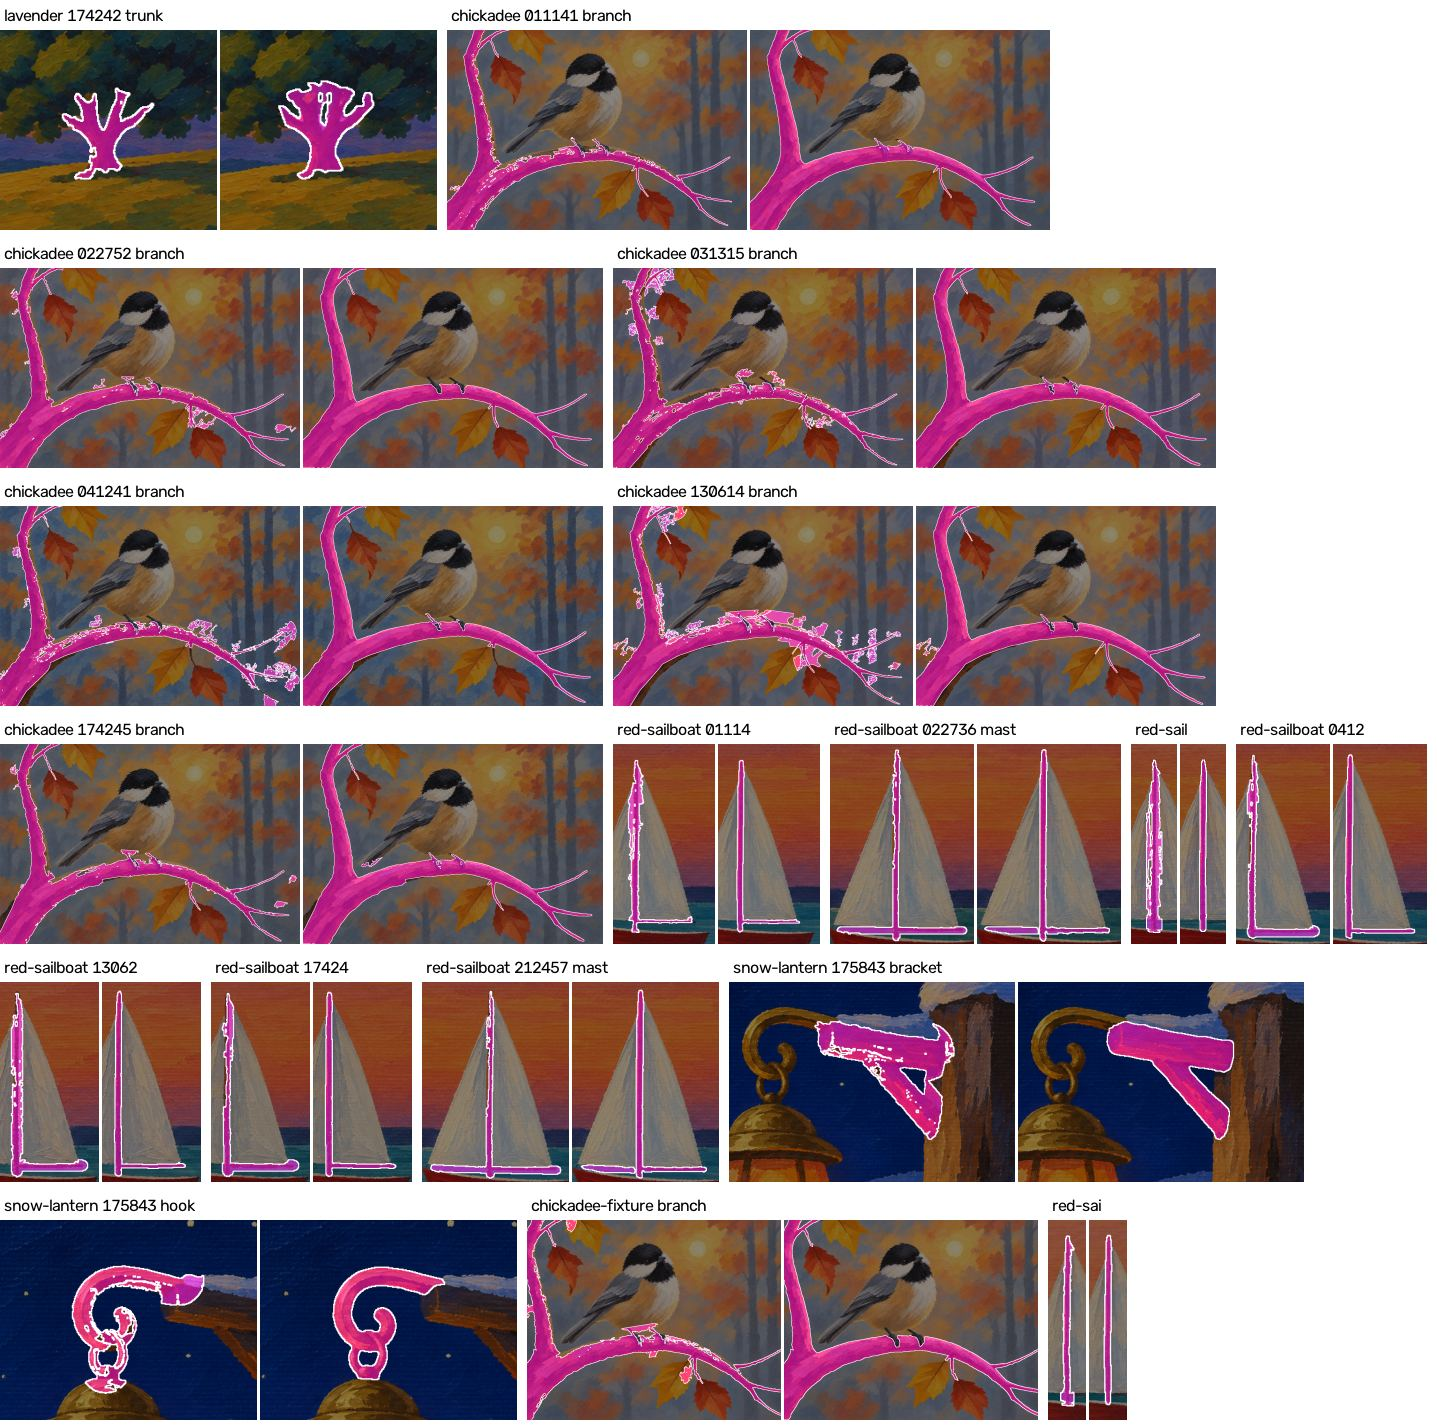
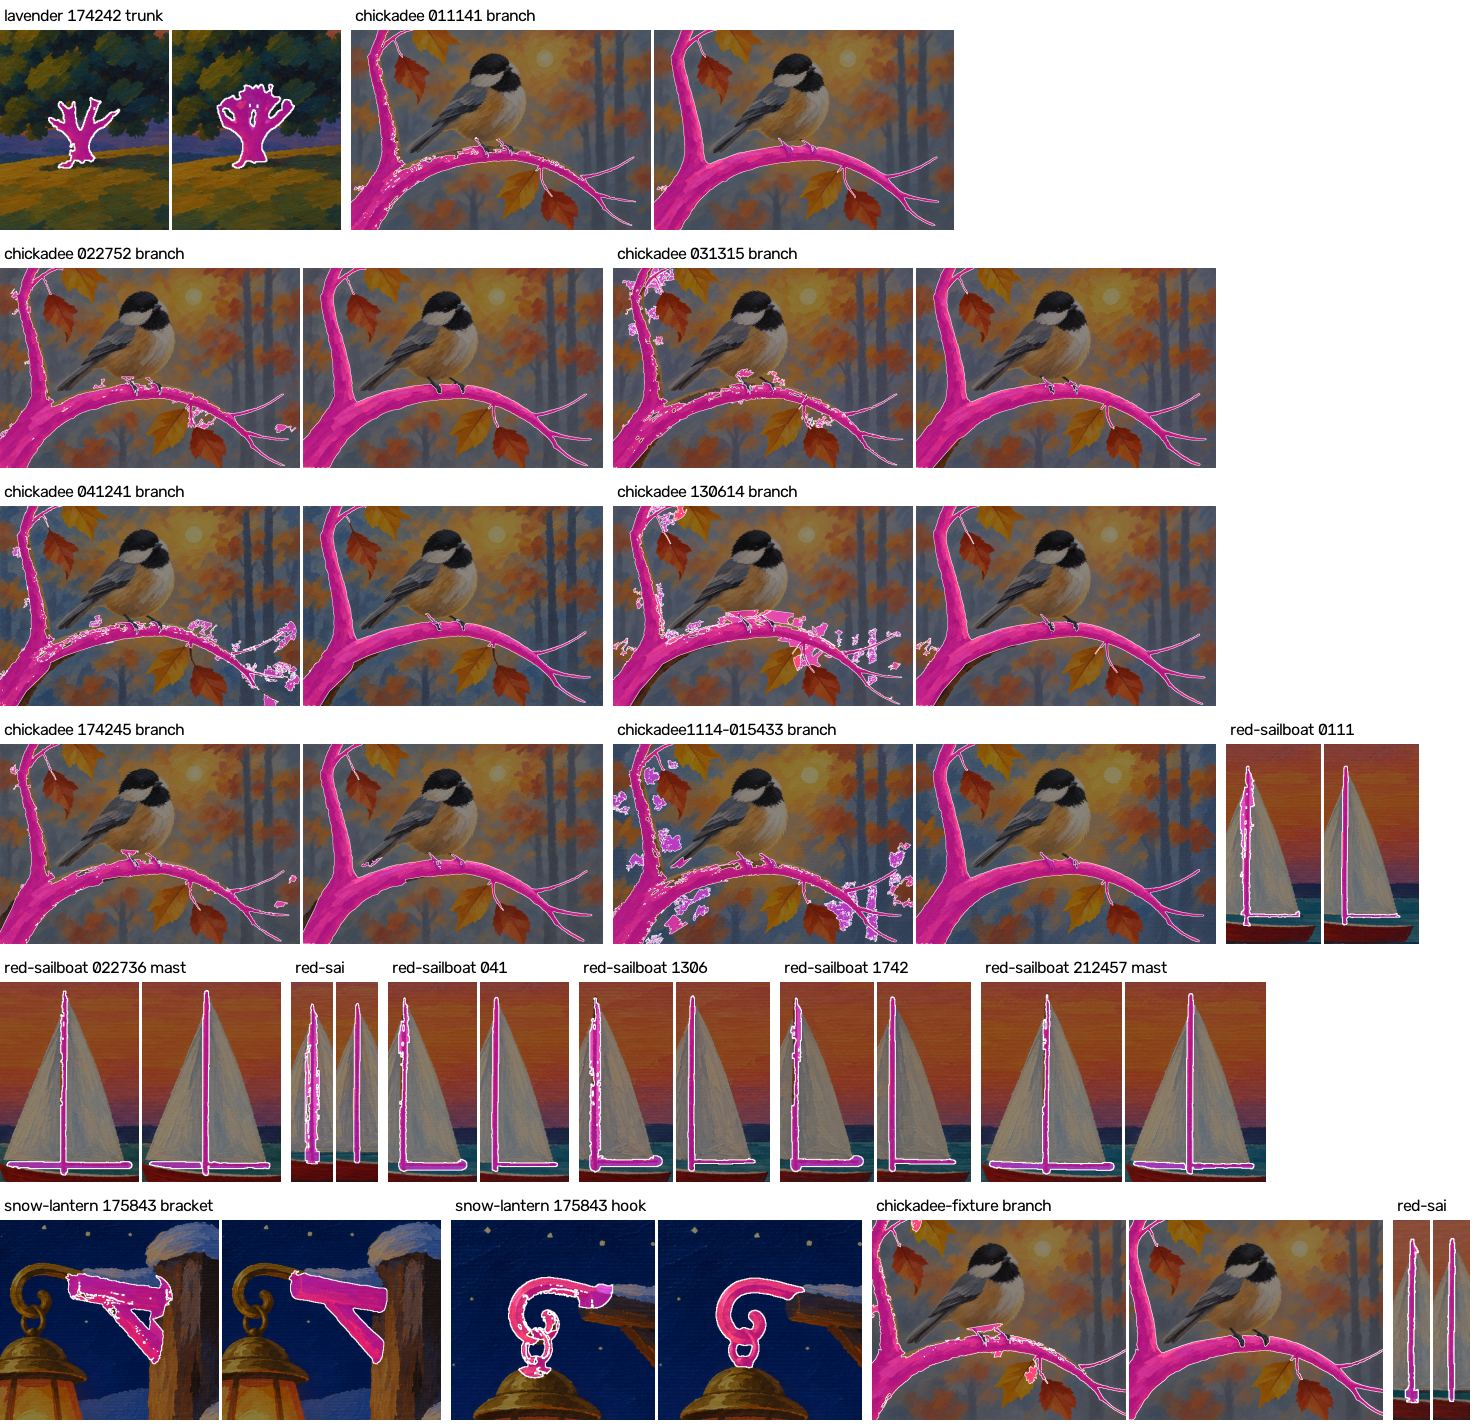
Review of #132: thin-part edge cases, a color check on the whole-part answer, and the box grows evenly
- A one-point path no longer crashes path_points.
- The color-rule fallback is decided after specks are dropped.
- stats.json carries color_agrees for a thin part, and problems reports one
  under 0.5: the model took what's behind it.
- A thin part missing one side's colors is refused by name again.
- path_box grows by the same distance up and down as to the sides, and
  points along a limb are spaced by the picture's width. Fixture outlines
  regenerated (under 0.01% of pixels moved) and the chickadee's paints
  measured again.
- Step 2 says what width means and that a leaf stem is a limb.
- Design section 6 records the first hands-off run.

Claude-Session: https://claude.ai/code/session_017xvRi3b5oo7VFd12D7CGUX

diff --git a/spike/outline.py b/spike/outline.py
@@ -40,7 +40,8 @@ SPECK = 0.0005  # pieces of a part smaller than this share of the picture go to 
 MARGIN = 0.0  # Lab units a marks pixel must be nearer its own colors than the colors behind it
 SEED_WINDOW = 0.006  # half the side of the patch a point's color is read from, as a share of the long side
 BAND = 1.6  # a thin part may reach this many times its stated width from its path
-LIMB_STEP = 0.06  # points along a limb for its own prompt, this share of the picture apart
+LIMB_STEP = 0.06  # points along a limb for its own prompt, this share of the picture's width apart
+THIN_AGREES = 0.5  # a thin part the color rule agrees with on less than this share of its outline is told
 HOLE = 0.03  # an area enclosing more than this share of the picture that went to a part behind it is told
 HOLE_BRIDGE = 0.02  # gaps in an area's outline narrower than about twice this (of the long side) count as closed
 
@@ -196,17 +197,24 @@ def band(shape: tuple[int, int], part: dict) -> np.ndarray:
     return m > 0
 
 
-def path_box(paths: list, width: float) -> list[float]:
-    """A box around paths, grown by the part's width."""
+def path_box(paths: list, width: float, shape: tuple[int, int]) -> list[float]:
+    """A box around paths, grown by the part's width. `width` is a share of the picture's width, so the box grows by
+    the same distance up and down as it does to the sides, whatever the picture's shape."""
+    h, w = shape
     pts = np.array([p for path in paths for p in path], float)
-    x0, y0, x1, y1 = pts[:, 0].min() - width, pts[:, 1].min() - width, pts[:, 0].max() + width, pts[:, 1].max() + width
+    up = width * w / h
+    x0, y0, x1, y1 = pts[:, 0].min() - width, pts[:, 1].min() - up, pts[:, 0].max() + width, pts[:, 1].max() + up
     return [float(max(0, x0)), float(max(0, y0)), float(min(1, x1)), float(min(1, y1))]
 
 
-def path_points(path: list, step: float = LIMB_STEP) -> list[list[float]]:
-    """Points along a path, about `step` of the picture apart, ends included."""
+def path_points(path: list, shape: tuple[int, int], step: float = LIMB_STEP) -> list[list[float]]:
+    """Points along a path, about `step` of the picture's width apart, ends included. A path of one point is that
+    point."""
+    h, w = shape
     p = np.array(path, float)
-    seg = np.sqrt((np.diff(p, axis=0) ** 2).sum(1))
+    if len(p) < 2:
+        return [[float(v) for v in q] for q in p]
+    seg = np.sqrt(((np.diff(p, axis=0) * [1.0, h / w]) ** 2).sum(1))  # lengths as shares of the width
     ends = np.cumsum(seg)
     out = []
     for d in np.linspace(0, float(seg.sum()), max(2, int(seg.sum() / step) + 1)):
@@ -230,26 +238,24 @@ def thin(sam: "Sam", L: np.ndarray, part: dict, inside: np.ndarray) -> tuple[np.
        (foliage between twigs), so of a limb's outline only the pixels the color rule agrees with are added.
 
     The rule was settled on 18 thin parts (docs/spikes/outline-models.md, "The join"). When the model returns
-    nothing, the color rule alone, as before #129. Returns the outline, the model's confidence in the whole-part
+    nothing (or only specks), the color rule alone, as before #129. Returns the outline, the model's confidence in the whole-part
     prompt, and what was done, for stats.json."""
     h, w = inside.shape
     paths, width = part.get("paths") or [part["path"]], part.get("width", 0.05)
     pin, pout = part.get("points_in") or [], part.get("points_out") or []
-    box = path_box(paths, width)
-    whole, conf = sam.mask(box, pin or [q for path in paths for q in path_points(path)], within(pout, box))
+    by_color = marks(L, part, inside)  # refuses a part with no colors for either side, naming what's missing
+    box = path_box(paths, width, (h, w))
+    whole, conf = sam.mask(box, pin or [q for path in paths for q in path_points(path, (h, w))], within(pout, box))
     claim = whole & inside
-    by_color = marks(L, part, inside) if has_colors(part) else inside
     for path in paths:
-        b = path_box([path], width)
-        limb, _ = sam.mask(b, path_points(path), within(pout, b))
+        b = path_box([path], width, (h, w))
+        limb, _ = sam.mask(b, path_points(path, (h, w)), within(pout, b))
         claim = claim | (limb & band((h, w), {"id": part["id"], "paths": [path], "width": width}) & by_color)
-    if not claim.any() and has_colors(part):
-        return by_color, None, {"thin_by": "color rule"}
-    return claim, conf, {"thin_by": "model"}
-
-
-def has_colors(part: dict) -> bool:
-    return all(part.get(f"points_{s}") or part.get(f"colors_{s}") for s in ("in", "out"))
+    claim = keep_pieces(claim)
+    if not claim.any():  # nothing, or only specks
+        return keep_pieces(by_color), None, {"thin_by": "color rule"}
+    # how much of the outline the color rule agrees with: low when the model returned what's behind the part
+    return claim, conf, {"thin_by": "model", "color_agrees": round(float((claim & by_color).sum() / claim.sum()), 3)}
 
 
 def drop_specks(owner: np.ndarray, floor: float = SPECK) -> np.ndarray:
@@ -413,7 +419,6 @@ def outline(finish: np.ndarray, parts: list[dict], sam: Sam | None = None,
                 if sam.emb is None:
                     sam.embed(finish)
                 claim, conf, how = thin(sam, L, p, inside)
-                claim = keep_pieces(claim)
                 row.update(how)
                 row["confidence"] = None if conf is None else round(conf, 3)
         else:
@@ -509,6 +514,10 @@ def problems(parts: list[dict], stats: list[dict]) -> list[str]:
                 out.append(f"{p['id']}: fills its whole box, so it probably took the background. Loosen the box.")
             if s["pieces"] > 3 * n_boxes:
                 out.append(f"{p['id']}: came back in {s['pieces']} pieces. Use one box per thing, or make it marks.")
+        if p["kind"] == "thin" and s.get("color_agrees") is not None and s["color_agrees"] < THIN_AGREES:
+            out.append(f"{p['id']}: only {s['color_agrees']:.0%} of its outline has the part's own colors, so the model "
+                       f"likely took what's behind it. Put points_in on the part and points_out on what it took, or "
+                       f"lower width.")
         if p["kind"] == "area" and (s.get("hole") or 0) > HOLE:
             x, y = s["hole_at"]
             out.append(f"{p['id']}: {s['hole']:.0%} of the picture inside its outline went to {s['hole_from']}, which "

diff --git a/spike/tests/test_pipeline_v2.py b/spike/tests/test_pipeline_v2.py
@@ -131,7 +131,7 @@ class OutlineTests(unittest.TestCase):
     def test_a_thin_part_is_the_whole_part_prompt_joined_with_each_limb_the_color_rule_agrees_with(self):
         img, part, bar, twig, blob = twig_scene()
         parts = [{"id": "sky", "kind": "area", "box": [0, 0, 1, 1]}, part]
-        whole_box = ol.path_box(part["paths"], part["width"])
+        whole_box = ol.path_box(part["paths"], part["width"], img.shape[:2])
         sam = FakeSam(lambda box: bar if box == whole_box else (twig | blob if box[2] < 0.7 else bar))
         masks, _, stats = ol.outline(img, parts, sam)
         got = masks["twigs"]
@@ -139,20 +139,64 @@ class OutlineTests(unittest.TestCase):
         self.assertFalse(got[30, 90])  # what the limb's prompt took from between: not the part's color
         self.assertGreater((got & (bar | twig)).sum(), 0.9 * (bar | twig).sum())
         self.assertEqual((stats[1]["thin_by"], stats[1]["confidence"]), ("model", 0.9))
+        self.assertGreater(stats[1]["color_agrees"], 0.9)
+        self.assertEqual(ol.problems(parts, stats), [])
         self.assertEqual(len(sam.asked), 3)  # the whole part, then each of its two limbs
         self.assertEqual(sam.asked[0]["points_in"], part["points_in"])
         self.assertEqual(sam.asked[2]["points_in"][0], part["paths"][1][0])  # a limb: points along its own path
         self.assertEqual(sam.asked[2]["points_out"], [[0.56, 0.2]])  # and only the points behind it in its box
         # nothing reaches past the band around the paths, whatever the model returns
         wide = FakeSam(lambda box: np.ones(img.shape[:2], bool))
-        self.assertFalse(ol.outline(img, parts, wide)[0]["twigs"][5, 5])
+        masks, _, stats = ol.outline(img, parts, wide)
+        self.assertFalse(masks["twigs"][5, 5])
+        # and a model that returned what's behind the part is told, not taken on trust
+        self.assertLess(stats[1]["color_agrees"], 0.5)
+        self.assertIn("twigs: only", " ".join(ol.problems(parts, stats)))
+
+    def test_a_limb_is_kept_to_the_band_around_its_own_path(self):
+        img, part, bar, twig, _ = twig_scene()
+        img[60:64, 30:60] = (90, 60, 40)  # more of the part's color under the bar's far end: in the bar's band only
+        parts = [{"id": "sky", "kind": "area", "box": [0, 0, 1, 1]}, part]
+        whole_box = ol.path_box(part["paths"], part["width"], img.shape[:2])
+        everything = np.ones(img.shape[:2], bool)
+        sam = FakeSam(lambda box: bar if box == whole_box else (everything if box[2] < 0.7 else bar))
+        masks, _, _ = ol.outline(img, parts, sam)
+        self.assertTrue(masks["twigs"][30, 81])
+        self.assertFalse(masks["twigs"][62, 40])  # the twig's prompt returned it, but it's not beside the twig
+
+    def test_the_path_helpers(self):
+        self.assertEqual(ol.path_points([[0.3, 0.4]], (100, 200)), [[0.3, 0.4]])  # one point: no crash
+        pts = ol.path_points([[0.1, 0.5], [0.4, 0.5]], (100, 200))
+        self.assertEqual((pts[0], pts[-1], len(pts)), ([0.1, 0.5], [0.4, 0.5], 6))
+        self.assertEqual(len(ol.path_points([[0.5, 0.1], [0.5, 0.4]], (100, 200))), 3)  # half as long on the canvas
+        # the box grows by the same distance every way: 0.1 of the width is 0.2 of this picture's height
+        self.assertEqual([round(v, 6) for v in ol.path_box([[[0.3, 0.5], [0.6, 0.5]]], 0.1, (100, 200))], [0.2, 0.3, 0.7, 0.7])
+        self.assertEqual(ol.path_box([[[0.05, 0.05], [0.95, 0.95]]], 0.1, (100, 200)), [0.0, 0.0, 1.0, 1.0])
+        self.assertEqual(ol.within([[0.1, 0.1], [0.5, 0.5]], [0.4, 0.4, 0.6, 0.6]), [[0.5, 0.5]])
+        m = np.zeros((100, 100), bool)
+        m[10:30, 10:30] = True
+        m[60:62, 60:62] = True  # 4 pixels: under 0.05% of the picture
+        self.assertEqual(int(ol.keep_pieces(m).sum()), 400)
+
+    def test_a_thin_part_of_one_point_or_missing_a_sides_colors_doesnt_crash(self):
+        img, part, bar, twig, _ = twig_scene()
+        part["paths"].append([[0.3, 0.3]])
+        parts = [{"id": "sky", "kind": "area", "box": [0, 0, 1, 1]}, part]
+        ol.outline(img, parts, FakeSam(lambda box: bar))
+        for key in ("points_out", "colors_out"):
+            part.pop(key)
+        with self.assertRaisesRegex(ValueError, "twigs: a thin part needs points_out or colors_out"):
+            ol.outline(img, parts, FakeSam(lambda box: bar))
 
     def test_a_thin_part_the_model_cant_find_falls_back_to_the_color_rule(self):
         img, part, bar, twig, _ = twig_scene()
         parts = [{"id": "sky", "kind": "area", "box": [0, 0, 1, 1]}, part]
-        masks, _, stats = ol.outline(img, parts, FakeSam(lambda box: np.zeros(img.shape[:2], bool)))
-        self.assertTrue(masks["twigs"][50, 80] and masks["twigs"][30, 81])
-        self.assertEqual((stats[1]["thin_by"], stats[1]["confidence"]), ("color rule", None))
+        speck = np.zeros(img.shape[:2], bool)
+        speck[50, 80] = True
+        for answer in (np.zeros(img.shape[:2], bool), speck):  # nothing, or only a speck
+            masks, _, stats = ol.outline(img, parts, FakeSam(lambda box: answer))
+            self.assertTrue(masks["twigs"][50, 80] and masks["twigs"][30, 81])
+            self.assertEqual((stats[1]["thin_by"], stats[1]["confidence"]), ("color rule", None))
 
     def test_a_marks_child_also_takes_what_nothing_has_claimed(self):
         # SAM-HQ leaves a hedge out of the field it sits on, where ViT-B took it in: the hedge is still the field's

diff --git a/spike/plan2.py b/spike/plan2.py
@@ -71,8 +71,8 @@ def parts_problems(plan: dict) -> list[str]:
             out.append(f"{pid}: a thin part needs paths: points along its middle")
         parent = seen.get(p.get("parent") or "")
         if parent and p.get("kind") in ("marks", "thin") and parent.get("kind") in ("marks", "thin"):
-            # a marks or thin child only takes pixels its parent's family owns, and a marks or thin parent owns only
-            # pixels of its own colors, so the child finds nothing (the sailboat's mast reflection, 2026-11-13)
+            # a marks or thin child only takes pixels its parent's family owns (or nobody does), and a marks or thin
+            # parent owns only pixels of its own colors, so the child finds nothing (the sailboat's mast reflection, 2026-11-13)
             instead = (f"give it {parent['parent']!r} as its parent (what {parent['id']} sits on)" if parent.get("parent")
                        else "give it no parent")
             out.append(f"{pid}: a {p['kind']} part can't have the {parent['kind']} part {parent['id']} as its parent: "

diff --git a/docs/design/pipeline-v2.md b/docs/design/pipeline-v2.md
@@ -268,7 +268,7 @@ way to teach it; a wrong outline is not. Don't render a step to get around it.
 model, and the model is SAM-HQ ViT-L.** "The model fails on thin parts" came from asking it with one box and no
 points. `outline.thin` asks twice and joins the answers, all inside the band around the part's `paths`:
 
-1. *The whole part:* one box around all its paths (grown by `width`), with the plan's `points_in` and the
+1. *The whole part:* one box around all its paths (grown by `width`, the same distance every way), with the plan's `points_in` and the
    `points_out` inside the box. This gives the body clean and in one piece, but can lose a limb or draw it too thin
    (a twig, a mast's boom).
 2. *Every limb:* one prompt per path, with a box around that path and points along it (every 6% of the picture,
@@ -276,8 +276,11 @@ points. `outline.thin` asks twice and joins the answers, all inside the band aro
    close together it can take what lies between them. So of a limb's outline only the pixels the color rule agrees
    with (nearer the part's colors than the colors behind it) are added.
 
-Pieces under 0.05% of the picture are dropped. When the model returns nothing, the part is the color rule's alone,
-as before, and `parts/stats.json` says which (`thin_by`: `model` or `color rule`). The rule was settled on 18 thin
+Pieces under 0.05% of the picture are dropped. When that leaves nothing, the part is the color rule's alone, as
+before, and `parts/stats.json` says which (`thin_by`: `model` or `color rule`). It also carries `color_agrees`,
+the share of the outline the color rule agrees with: 0.81 to 0.96 on every branch, mast, bracket, and hook tried,
+0.55 on a tree trunk the model drew fatter than its paint. `outline.problems` reports a thin part under 0.5
+(`THIN_AGREES`): the model took what's behind the part, which is how the 2026-11-12 probe failed. The rule was settled on 18 thin
 parts: the 16 in the saved runs and the fixtures' two (7 branches, 8 masts, a lantern's bracket and hook, a tree
 trunk). "The whole part first, then a limb only where its path isn't covered" was tried first and left three of
 the eight booms as a hairline, because a hairline covers the path. The join the spike feared (the gate run's
@@ -299,6 +302,13 @@ Also from #129:
   (overlap), and no part is reported by `outline.problems`. One thing is worse: the lavender fixture's far strip
   of hedge at the left edge is filed under the mountains it touches, where ViT-B left it to the hedges.
 - A thin part with no model loaded is refused (`NoModel`), like an object; tests hand `outline` a stand-in model.
+- **The first hands-off run** (`chickadee_skill_20261114-015433`, from the photo, sealed in 14 minutes, 2 renders,
+  $0.08): three runs of `outline` at 26, 16, and 15 seconds, and no fix round for the branch or the feet (one each
+  for the bird and the trunks, and one on the wing that was put back). The branch came back in one piece on the
+  first try, with its twigs and both leaf stems; the feet as two clean shapes from one box. Left on it: a small
+  knob where each leaf stem meets its leaf, and two small spikes on the bough where the feet sit. `stats.json`
+  says the feet are in 0 pieces: each foot is under the size `owner_stats` counts as a piece (0.2% of the
+  picture). Nothing reads that as a fault, but the count is wrong for a part this small.
 
 The model: Segment Anything in High Quality (SAM-HQ) ViT-L, quantized encoder, ONNX, 345 MB, downloaded once to
 `models/` (git-ignored) from X-AnyLabeling's release with each file's SHA-256 checked. `onnxruntime`, no PyTorch.

diff --git a/.claude/skills/paint-lesson/steps/2-parts.md b/.claude/skills/paint-lesson/steps/2-parts.md
@@ -32,7 +32,9 @@ look like).
   `points_out` (5 to 8 spots on what's behind and around it, one per color there).
 - **A `thin` part is found by the outline model**, asked once for the whole part (a box around all its paths, with
   your points) and once per path (points along that path). So give **one path per limb**: the trunk, each bough,
-  each twig, a mast and its boom. A limb with no path of its own can be lost. Put `points_in` on the thick body,
+  each twig, a leaf's stem, a mast and its boom. `width` is the part's widest thickness as a share of the
+  picture's width (a bough 12% of the width across at its base: `0.12`); nothing farther than that from a path is
+  taken. A limb with no path of its own can be lost. Put `points_in` on the thick body,
   and `points_out` on everything that touches it or lies between two limbs (foliage between twigs, the sail
   beside a mast): the color fields decide what a limb's outline keeps.
 - **`marks` or `object`?** If you could cut the thing out with scissors (feet, a leaf, a sun), it's an `object`

diff --git a/docs/spikes/outline-models.md b/docs/spikes/outline-models.md
@@ -193,7 +193,8 @@ fixtures' two (7 branches, 8 masts, a lantern's bracket and hook, a tree trunk),
   so the color rule turns it down. The two rules fail in different places (the model between close paths, the
   color rule on mist the branch's color), and what both accept is clean.
 
-Left: the color rule, as before. Right: what's built.
+Left: the color rule, as before. Right: what's built. The sheet also has the branch from this issue's own
+hands-off run (`chickadee 1114-015433`), whose plan was written for the new tool.
 
 ![Every thin part, before and after](outline-models-join.jpg)
 
